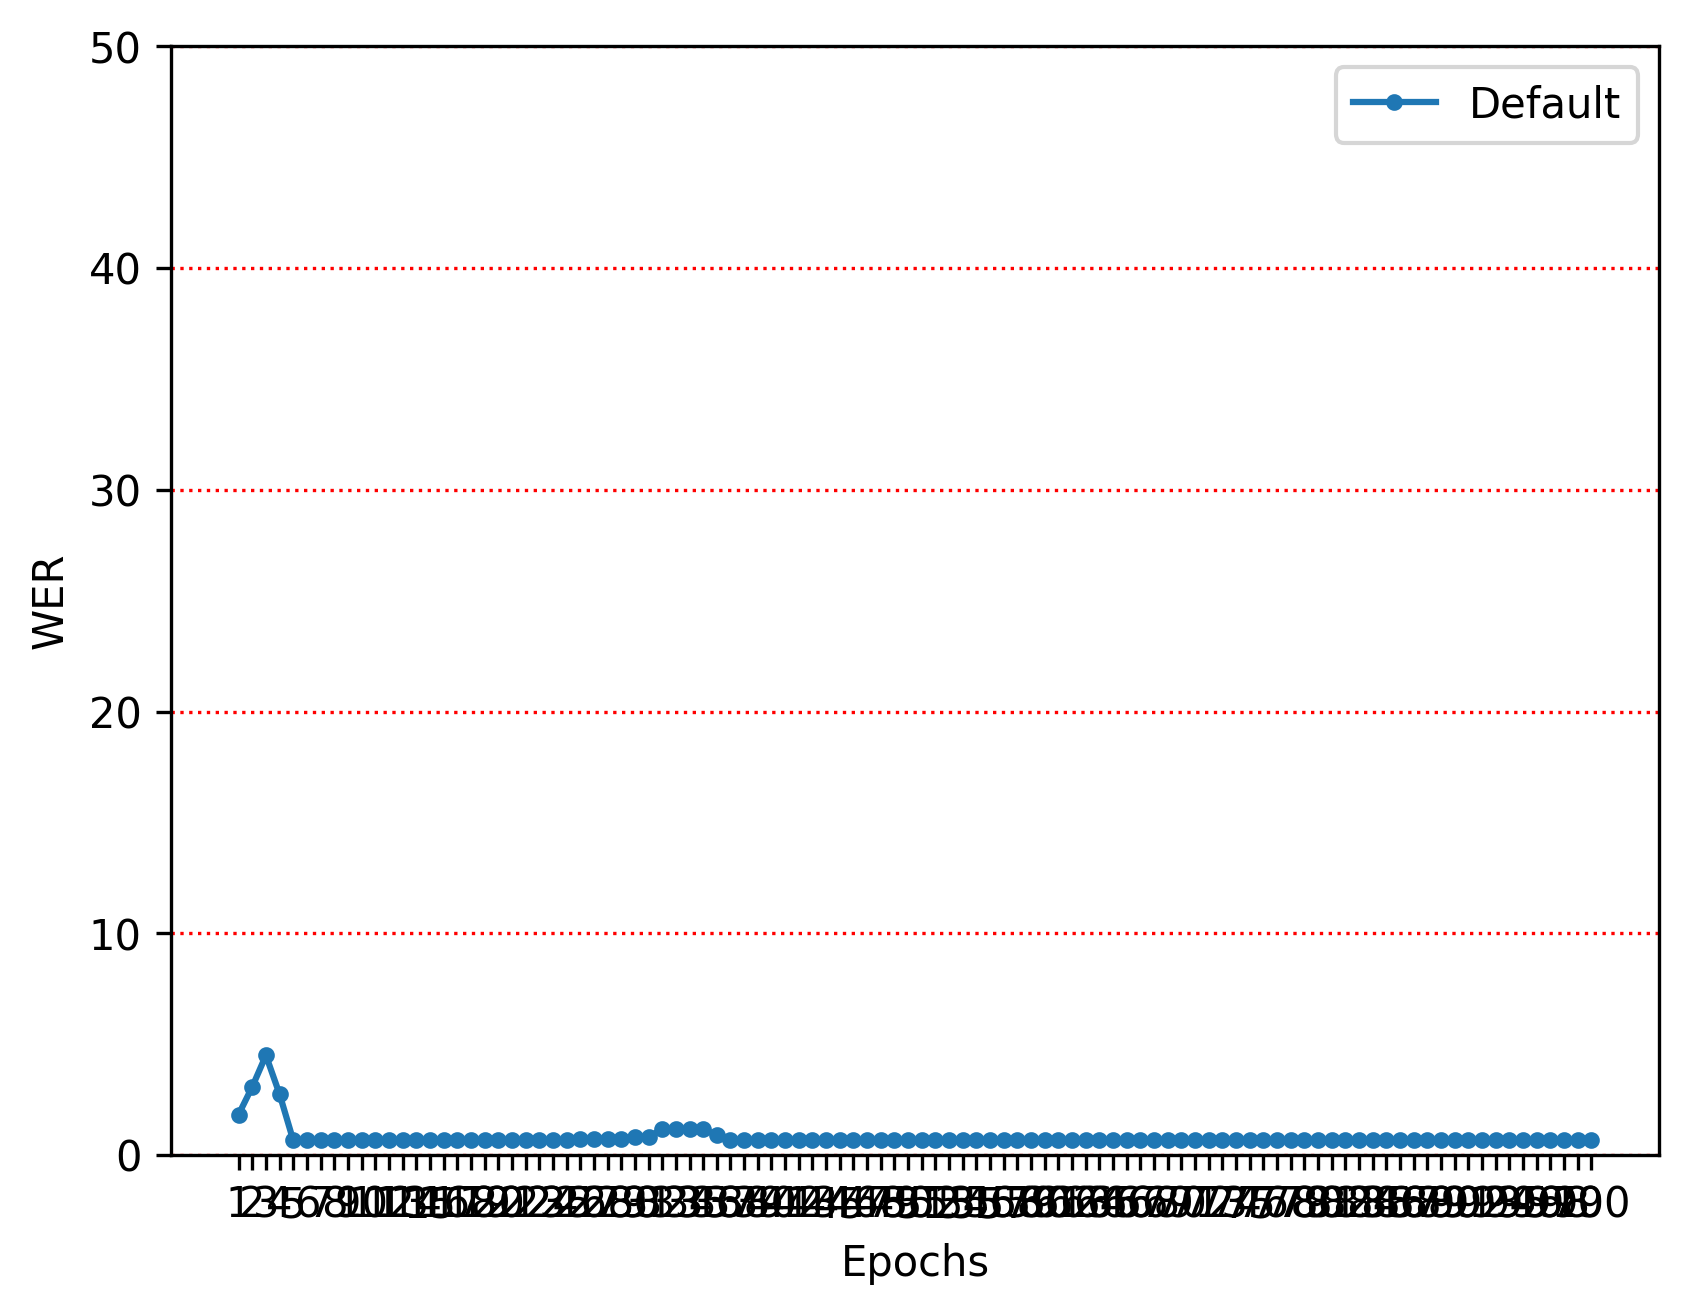
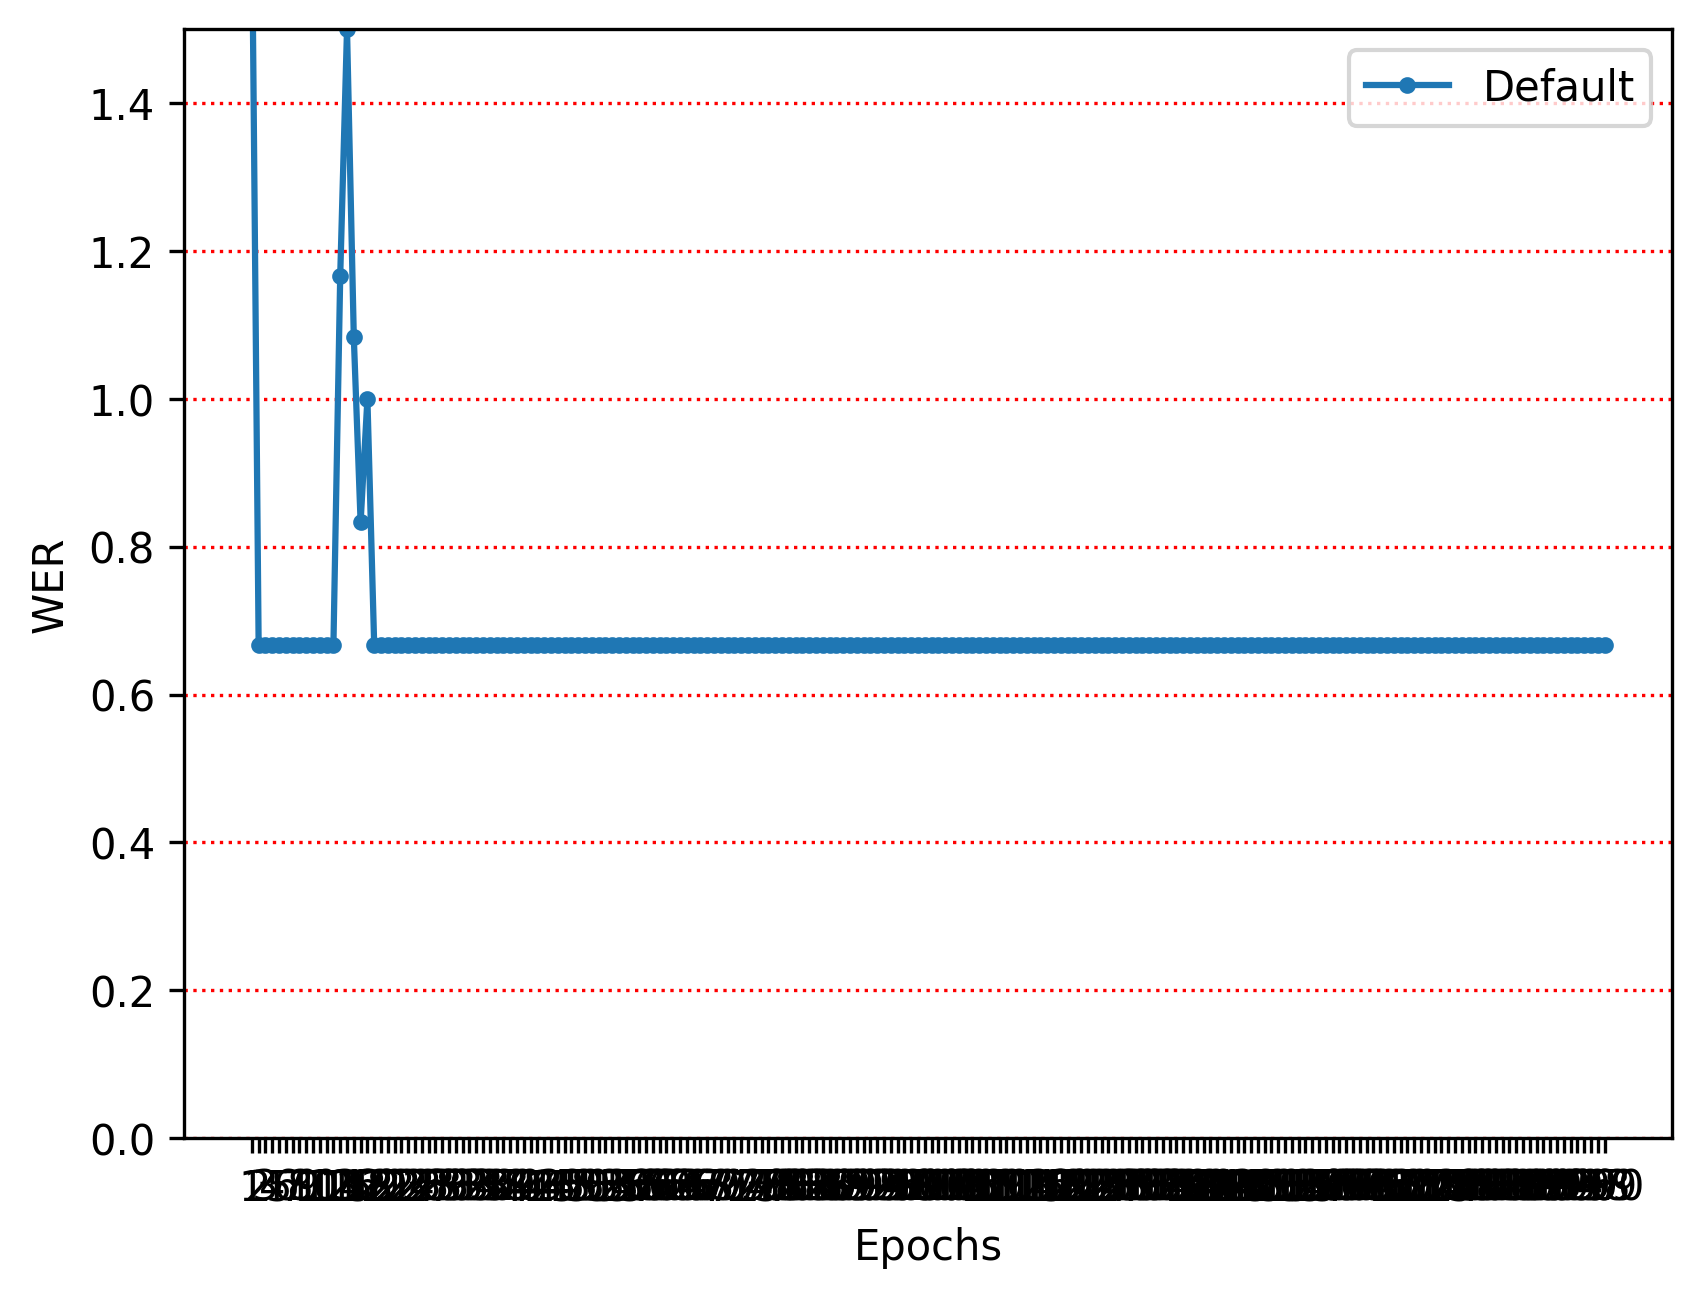
update: schedulerの変更

diff --git a/ContinuousSignLanguage/CNN_BiLSTM/models/cnn_bilstm_model.py b/ContinuousSignLanguage/CNN_BiLSTM/models/cnn_bilstm_model.py
@@ -163,11 +163,12 @@ class CNNBiLSTMModel(nn.Module):
         self.loss = dict()
         self.criterion_init()
 
-        # 損失の重みを調整 - BiLSTMの重みを増やす
+        # 損失の重みを調整 - 知識蒸留の重みを大幅に削減
         self.loss_weights = {
-            "ConvCTC": 1.0,  # CNNからの出力の重みを下げる
-            "SeqCTC": 1.0,  # BiLSTM後の出力の重みを上げる
-            "Dist": 25.0,  # 知識蒸留（Distillation）損失に対する重み
+            "ConvCTC": 1.0,  # CNNからの出力の重み
+            "SeqCTC": 1.0,  # BiLSTM後の出力の重み
+            "Dist": 25.0,  # 知識蒸留損失の重みを25.0から5.0に削減（他の成功例に合わせる）
+            # "BlankPenalty": 0.01,  # ブランクペナルティの重みを追加
         }
 
         self.temporal_model = BiLSTM.BiLSTMLayer(
@@ -241,7 +242,7 @@ class CNNBiLSTMModel(nn.Module):
 
             # ブランクのバイアスを大きな負の値に設定（選択されにくくする）
             with torch.no_grad():
-                self.classifier.bias[self.blank_id] = -3.0
+                self.classifier.bias[self.blank_id] = -5.0
 
         # 初期化後の重みとバイアスの統計を表示
         with torch.no_grad():
@@ -374,56 +375,27 @@ class CNNBiLSTMModel(nn.Module):
             pred = None
             conv_pred = None
         elif mode == "eval":
-            pred = self.decoder.decode(cnn_logit, updated_lgt, batch_first=False, probs=False)
-            conv_pred = self.decoder.decode(cnn_logit, updated_lgt, batch_first=False, probs=False)
+            pred = self.decoder.decode(
+                cnn_logit, updated_lgt, batch_first=False, probs=False
+            )
+            conv_pred = self.decoder.decode(
+                cnn_logit, updated_lgt, batch_first=False, probs=False
+            )
         else:
-            pred = self.decoder.decode(cnn_logit, updated_lgt, batch_first=False, probs=True)
-            conv_pred = self.decoder.decode(cnn_logit, updated_lgt, batch_first=False, probs=True)
+            pred = self.decoder.decode(
+                cnn_logit, updated_lgt, batch_first=False, probs=True
+            )
+            conv_pred = self.decoder.decode(
+                cnn_logit, updated_lgt, batch_first=False, probs=True
+            )
 
-
-        return { 
+        return {
             "feat_len": updated_lgt,
             "conv_logits": cnn_logit,
             "sequence_logits": outputs,
             "conv_sents": conv_pred,
             "recognized_sents": pred,
         }
-        
-
-        if mode == "train":
-            ret_dict = {
-                "feat_len": updated_lgt,
-                "conv_logits": cnn_logit,
-                "sequence_logits": outputs,
-                "conv_sents": conv_pred,
-                "recognized_sents": pred,
-            }
-            loss = self.criterion_calculation(ret_dict, tgt_feature, target_lengths)
-            return loss, outputs
-        else:
-            # テスト時には分析を実行
-            # トークン分布を分析（analyze=Trueで実行）
-            pred = self.decoder.decode(
-                outputs, updated_lgt, batch_first=False, probs=False, analyze=True
-            )
-            conv_pred = self.decoder.decode(
-                cnn_logit, updated_lgt, batch_first=False, probs=False
-            )
-            # Top5トークンの情報を取得
-            if hasattr(self.decoder, 'analyze_frame_by_frame_distribution'):
-                frame_analysis = self.decoder.analyze_frame_by_frame_distribution(
-                    outputs.permute(1, 0, 2),  # (B, T, C)形式に変換
-                    updated_lgt, 
-                    save_plot=True
-                )
-                
-                # パターン分析も実行
-                # self.decoder.analyze_frame_level_patterns(
-                #     outputs.permute(1, 0, 2),
-                #     updated_lgt,
-                #     save_plot=True
-                # )
-            return pred, conv_pred
 
     def criterion_calculation(self, ret_dict, label, label_lgt):
         loss = 0

diff --git a/ContinuousSignLanguage/CNN_BiLSTM/continuous_sign_language/modeling/train.py b/ContinuousSignLanguage/CNN_BiLSTM/continuous_sign_language/modeling/train.py
@@ -8,6 +8,7 @@ import torch
 import os
 import numpy as np
 
+
 def model_train():
     train_hdf5files, val_hdf5files, test_hdf5files, key2token = dataset.read_dataset()
     train_dataloader, val_dataloader, test_dataloader, in_channels = (
@@ -51,19 +52,27 @@ def model_train():
     device = torch.device("cuda" if torch.cuda.is_available() else "cpu")
 
     # より低い学習率で開始し、学習の安定性を向上
-    initial_lr = model_config.lr * 0.1  # 元の学習率の1/10
-    optimizer = torch.optim.Adam(cnn_transformer.parameters(), lr=initial_lr)
+    initial_lr = 0.0001  # 他の成功例に合わせて学習率を下げる
+    optimizer = torch.optim.Adam(
+        cnn_transformer.parameters(), lr=initial_lr, weight_decay=0.0001  # 正則化を追加
+    )
 
     # 学習率スケジューラを追加
     # ウォームアップ後に徐々に学習率を下げるスケジューラ
-    scheduler = torch.optim.lr_scheduler.OneCycleLR(
+    # scheduler = torch.optim.lr_scheduler.OneCycleLR(
+    #     optimizer,
+    #     max_lr=0.0001,  # 最大学習率も他の成功例に合わせる
+    #     steps_per_epoch=len(train_dataloader),
+    #     epochs=model_config.epochs,
+    #     pct_start=0.3,  # 学習率がピークに達するまでのエポック割合
+    #     div_factor=10.0,  # 初期学習率 = max_lr / div_factor
+    #     final_div_factor=100.0,  # 最終学習率 = max_lr / (div_factor * final_div_factor)
+    # )
+    scheduler = torch.optim.lr_scheduler.MultiStepLR(
         optimizer,
-        max_lr=model_config.lr,  # 最大学習率は元の設定値
-        steps_per_epoch=len(train_dataloader),
-        epochs=model_config.epochs,
-        pct_start=0.3,  # 学習率がピークに達するまでのエポック割合
-        div_factor=10.0,  # 初期学習率 = max_lr / div_factor
-        final_div_factor=100.0,  # 最終学習率 = max_lr / (div_factor * final_div_factor)
+        milestones=[30, 60, 90],  # エポック30, 60, 90で学習率を下げる
+        gamma=0.2,                # 各マイルストーンで学習率を0.2倍にする
+        last_epoch=-1
     )
 
     epochs = model_config.epochs
@@ -139,6 +148,8 @@ def model_train():
 
 
 if __name__ == "__main__":
-    logger, log_file = init_log.setup_logging(log_dir="./CNN_BiLSTM/logs", console_output=False)
+    logger, log_file = init_log.setup_logging(
+        log_dir="./CNN_BiLSTM/logs", console_output=False
+    )
 
     model_train()

diff --git a/ContinuousSignLanguage/CNN_BiLSTM/continuous_sign_language/modeling/functions.py b/ContinuousSignLanguage/CNN_BiLSTM/continuous_sign_language/modeling/functions.py
@@ -184,7 +184,7 @@ def train_loop(
     # 学習率スケジューラを更新
     if scheduler is not None:
         scheduler.step()
-        print(f"Learning rate updated to: {scheduler.get_last_lr()[0]:.6f}")
+        logging.info(f"Learning rate updated to: {scheduler.get_last_lr()[0]:.6f}")
 
     print(f"Done. Time:{time.perf_counter()-start}")
     # Average loss.
@@ -231,6 +231,7 @@ def val_loop(dataloader, model, device, return_pred_times=False, current_epoch=N
             # Predict.
             input_lengths = feature_lengths
             target_lengths = target_lengths = torch.sum(tokens_pad_mask, dim=1)
+            logging.info(target_lengths)
             pred_start = time.perf_counter()
             ret_dict = model.forward(
                 src_feature=feature,
@@ -249,9 +250,7 @@ def val_loop(dataloader, model, device, return_pred_times=False, current_epoch=N
             pred = ret_dict["recognized_sents"]
             conv_pred = ret_dict["conv_sents"]
 
-            # logging.info("predとtokenの形状")
-            # logging.info(pred)
-            # logging.info(tokens)
+
 
             tokens = tokens.tolist()
             reference_text = [" ".join(map(str, seq)) for seq in tokens]

diff --git a/ContinuousSignLanguage/CNN_BiLSTM/continuous_sign_language/plots.py b/ContinuousSignLanguage/CNN_BiLSTM/continuous_sign_language/plots.py
@@ -75,7 +75,7 @@ def wer_plot(wer_scores_default, eval_every_n_epochs):
     plt.plot(xs_val, wer_scores_default, label="Default", marker=".")
     plt.xlabel("Epochs")
     plt.ylabel("WER")
-    plt.ylim([0.0, 50.0])
+    plt.ylim([0.0, 1.5])
     plt.xticks(np.arange(1, len(wer_scores_default)+1, eval_every_n_epochs))
     plt.legend()
     save_path = os.path.join(config.plot_save_dir, config.plot_wer_save_path)

diff --git a/ContinuousSignLanguage/CNN_BiLSTM/models/one_dcnn.py b/ContinuousSignLanguage/CNN_BiLSTM/models/one_dcnn.py
@@ -182,7 +182,6 @@ class ResNet1D(nn.Module):
             )
 
         layers = []
-        print(self.in_channels, "***************")
         layers.append(block(self.in_channels, out_channels, stride, downsample))
         self.in_channels = out_channels * block.expansion
         for _ in range(1, blocks):

diff --git a/ContinuousSignLanguage/CNN_BiLSTM/continuous_sign_language/modeling/config.py b/ContinuousSignLanguage/CNN_BiLSTM/continuous_sign_language/modeling/config.py
@@ -26,7 +26,7 @@ batch_first = True
 #学習パラメータ
 label_smoothing = 0.1
 lr = 3e-4
-epochs = 100
+epochs = 200
 eval_every_n_epochs = 1
 
 #モデルの保存
